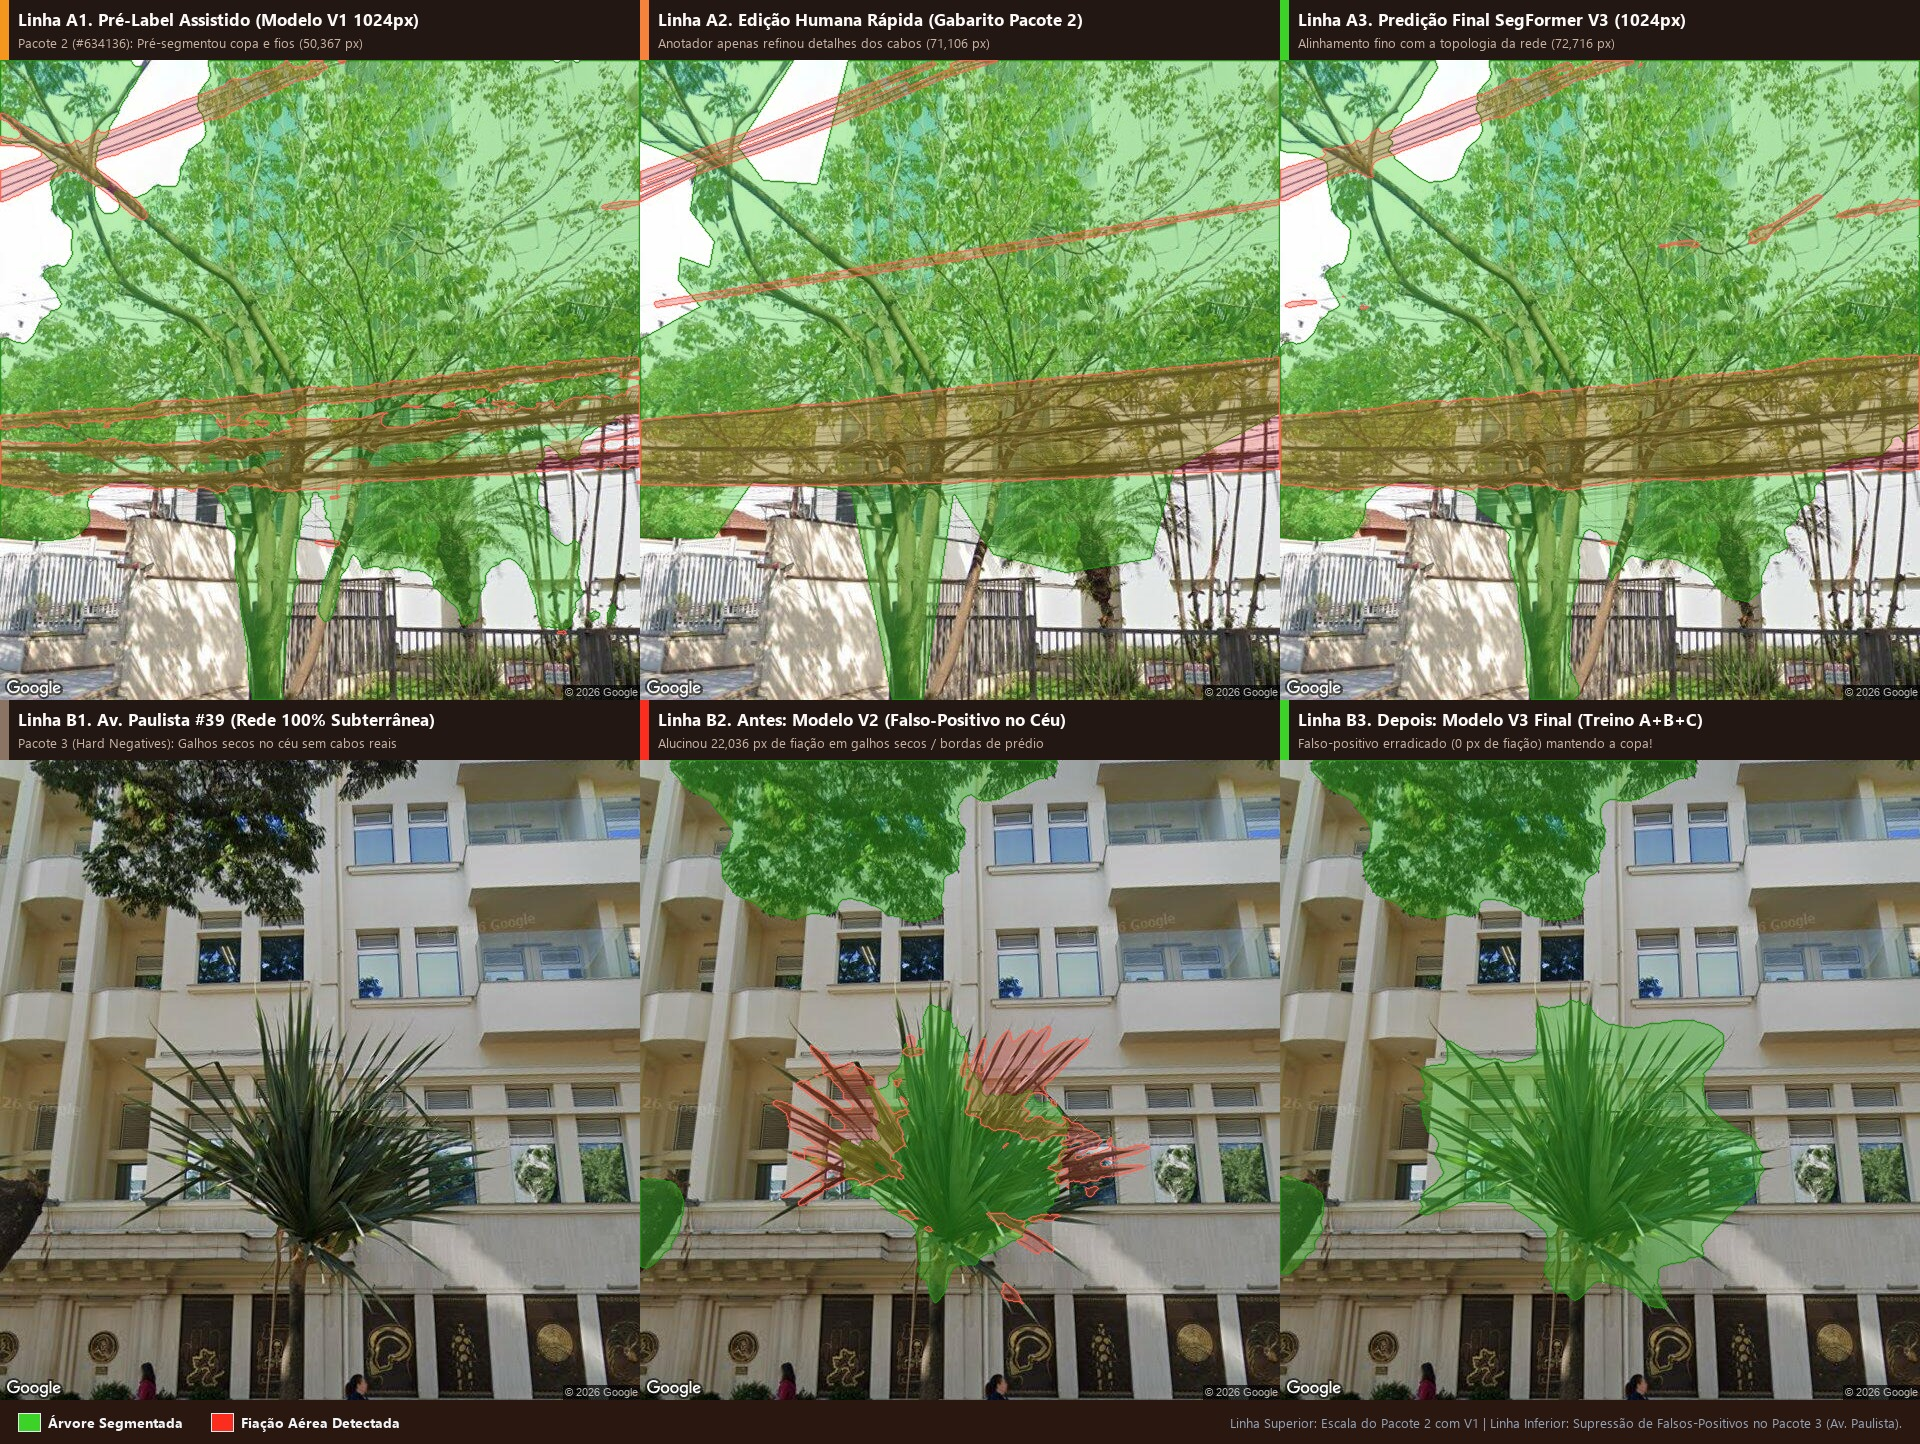
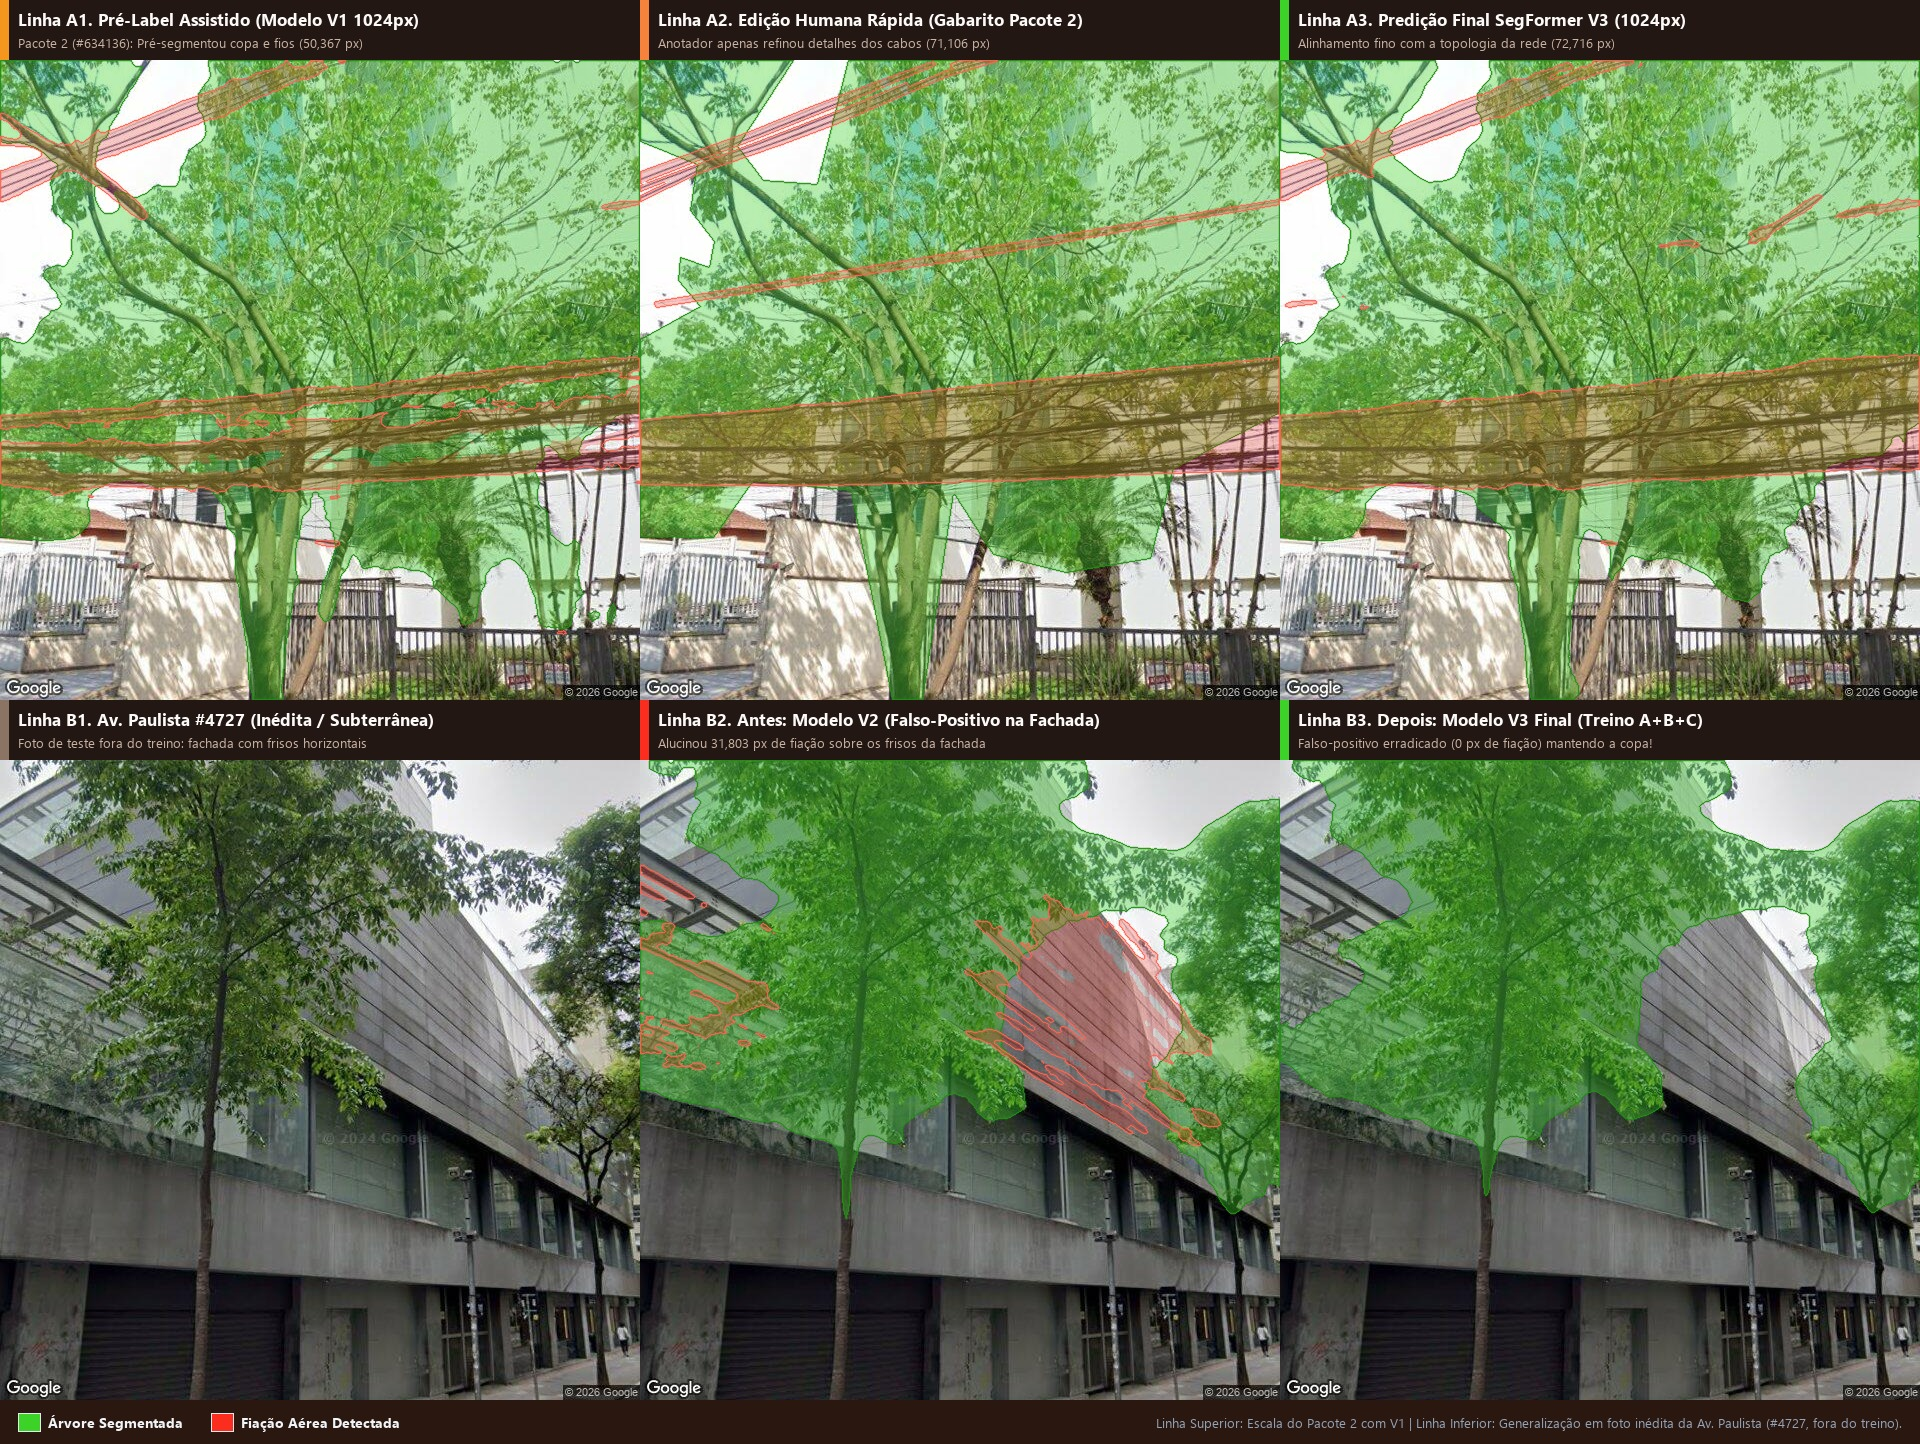
Revisando configurações de infra e figuras da documentação de Vision

diff --git a/arborgrid-vision/scripts/vision_utils.py b/arborgrid-vision/scripts/vision_utils.py
@@ -289,14 +289,12 @@ def draw_morphology_panel(
     mask_wire: np.ndarray,
 ) -> tuple[np.ndarray, int, int, str]:
     """
-    Desenha os dois anéis ao redor da copa para ilustrar a medição geométrica de conflito:
-      - Anel laranja interno (r1 = 6 px): contato direto / muito próximo
-      - Anel amarelo externo (r2 = 24 px): faixa de aproximação (risco com vento)
-      - Fios em ciano/amarelo: trechos do cabo que cruzam cada anel
+    Desenha a zona de aproximação ao redor da copa para ilustrar a medição geométrica de conflito:
+      - Contorno amarelo externo (r2 = 24 px): faixa de aproximação (risco com vento)
+      - Fios em ciano/amarelo translúcidos: trechos do cabo em contato direto (r1 = 6 px) ou na zona de vento (r2)
     """
-    canvas = (img_bgr.astype(np.float32) * 0.48).astype(np.uint8)
     canvas = render_overlay(
-        canvas, mask_tree, mask_wire, alpha_tree=0.32, alpha_wire=0.22, wire_contour_px=1
+        img_bgr, mask_tree, mask_wire, alpha_tree=0.32, alpha_wire=0.22, wire_contour_px=1
     )
 
     r1 = THRESHOLDS["r1_contact_radius_px"]
@@ -309,14 +307,17 @@ def draw_morphology_panel(
     cnt_r2, _ = cv2.findContours(dil_r2, cv2.RETR_EXTERNAL, cv2.CHAIN_APPROX_SIMPLE)
     cv2.drawContours(canvas, cnt_r2, -1, (0, 215, 255), 1, cv2.LINE_AA)
 
-    cnt_r1, _ = cv2.findContours(dil_r1, cv2.RETR_EXTERNAL, cv2.CHAIN_APPROX_SIMPLE)
-    cv2.drawContours(canvas, cnt_r1, -1, (0, 140, 255), 1, cv2.LINE_AA)
-
     contact_direct = (dil_r1 > 0) & (mask_wire > 0)
     buffer_zone = (dil_r2 > 0) & (dil_r1 == 0) & (mask_wire > 0)
 
-    canvas[buffer_zone] = (0, 230, 255)   # Amarelo nos fios dentro do anel externo
-    canvas[contact_direct] = (255, 255, 0)  # Ciano nos fios tocando o anel interno
+    if np.any(buffer_zone):
+        canvas[buffer_zone] = (
+            0.42 * canvas[buffer_zone] + 0.58 * np.array([0, 230, 255], dtype=np.float32)
+        ).astype(np.uint8)  # Amarelo translúcido nos fios dentro do anel externo
+    if np.any(contact_direct):
+        canvas[contact_direct] = (
+            0.38 * canvas[contact_direct] + 0.62 * np.array([255, 255, 0], dtype=np.float32)
+        ).astype(np.uint8)  # Ciano translúcido nos fios tocando o anel interno
 
     c_px = int(contact_direct.sum())
     b_px = int(buffer_zone.sum())

diff --git a/infra/ARQUITETURA_CLOUD_DEVSECOPS.md b/infra/ARQUITETURA_CLOUD_DEVSECOPS.md
@@ -12,10 +12,12 @@ flowchart LR
     Airflow[Airflow 3 / Big Data] -->|Bearer Token HTTPS/HTTP| SG
     Admin[Engenheiro DevOps] -->|SSH 22 CIDR Restrito| SG
 
-    subgraph EC2[AWS EC2 t3.small — Ubuntu 24.04 — Terraform IaC]
+    subgraph EC2[AWS EC2 t3.medium — Ubuntu 24.04 — Terraform IaC]
         SG --> Nginx[Nginx Reverse Proxy :80]
         Nginx --> App[FastAPI WebApp non-root :8000]
+        App -->|Chat RAG :8080| Llama[llama.cpp Qwen3-1.7B Q4_K_M]
         Media[(Volume RO /opt/arborgrid/media)] --> App
+        LLMModel[(Volume RO /opt/arborgrid/llm_models)] --> Llama
         State[(Volume RW /app/state Gold JSON)] <--> App
         Prom[Prometheus 127.0.0.1:9090] -->|Scrape /metrics| App
         Graf[Grafana 127.0.0.1:3000] -->|Query PromQL| Prom
@@ -51,16 +53,16 @@ flowchart LR
 
 ## 4. Estimativa de Custo Mensal (AWS `us-east-1`)
 
-Valores referenciais *on-demand* (sujeitos a cobertura por créditos de estudante / Free Tier):
+Valores referenciais *on-demand* (cobertos por créditos do AWS Academy Learner Lab durante sessões ativas):
 
-| Recurso | Especificação | Custo Mensal Estimado (USD) |
-| :--- | :--- | ---: |
-| Computação EC2 | `1x t3.small` (2 vCPU, 2 GiB RAM, 730 h/mês) | ~\$15,18 |
-| Armazenamento EBS | `20 GB gp3` criptografado | ~\$1,60 |
-| IPv4 Público & Tráfego | `1x IPv4` público + ~10 GB/mês transferência | ~\$4,50 |
-| **Total Mensal Estimado** | | **~\$21,28 / mês** |
+| Recurso | Especificação | Custo Mensal 24/7 (USD) | Custo por Hora |
+| :--- | :--- | ---: | ---: |
+| Computação EC2 | `1x t3.medium` (2 vCPU, 4 GiB RAM, necessária para `Qwen3-1.7B Q4_K_M`) | ~\$30,37 | \$0,0416/h |
+| Armazenamento EBS | `30 GB gp3` criptografado | ~\$2,40 | \$0,0033/h |
+| IPv4 Público & Tráfego | `1x IPv4` público (`$0,005/h`) + ~10 GB/mês transferência | ~\$4,55 | \$0,0062/h |
+| **Total Estimado** | | **~\$37,32 / mês (730 h)** | **~\$0,051 / hora** |
 
-*Observação:* durante períodos sem demonstração ativa, o volume reduzido da imagem (`webapp/Dockerfile`) permite rodar em `t3.micro` (~\$7,59/mês *on-demand* ou elegível ao Free Tier quando aplicável) com swap de `1 GB`.
+*Observação:* quando a VM está desligada (`Stopped`) fora dos testes/demonstrações no Learner Lab, a cobrança recai apenas sobre o disco EBS (`30 GB` ≈ `~$2,40/mês`), consumindo fração mínima do orçamento de créditos do laboratório. Para execução enxuta sem inferência neural GGUF (usando *fallback* determinístico RAG), é possível reduzir para `t3.small` (~\$22,13/mês em 30 GB `gp3`).
 
 ---
 

diff --git a/arborgrid-vision/ARQUITETURA_PIPELINE.md b/arborgrid-vision/ARQUITETURA_PIPELINE.md
@@ -68,7 +68,7 @@ A partir da posição da árvore $(\phi_t, \lambda_t)$ e da câmera veicular $(\
 - **Inclinação vertical adaptativa (`pitch`):**
   $$\alpha = \operatorname{atan2}\!\big(h_{\text{rede}} - h_{\text{cam}},\; \max(d,\; 4{,}5)\big)$$
   com $h_{\text{cam}} \approx 2{,}5\text{ m}$ (altura veicular) e $h_{\text{rede}} \approx 5{,}7\text{ m}$ (altura média dos condutores secundários/primários). O piso de $4{,}5\text{ m}$ evita inclinações extremas junto ao meio-fio.
-- **Segundo ângulo ortogonal ($\theta \pm 90^\circ$):** árvores plantadas recuadas dentro de lotes podem aparentar cruzar os cabos na visada frontal (`Painel 2` acima); a visada lateral ao longo do eixo da via (`Painel 3`, `#633197`) expõe a separação física real e permite sinalizar `DIVERGENCIA_PARALAXE`.
+- **Segundo ângulo ortogonal ($\theta \pm 90^\circ$):** mudanças de perspectiva expõem quando um cruzamento aparente em 2D resulta apenas de projeção oblíqua (`#629831` na figura acima), permitindo diferenciar contato físico confirmado de `DIVERGENCIA_PARALAXE`.
 
 ---
 
